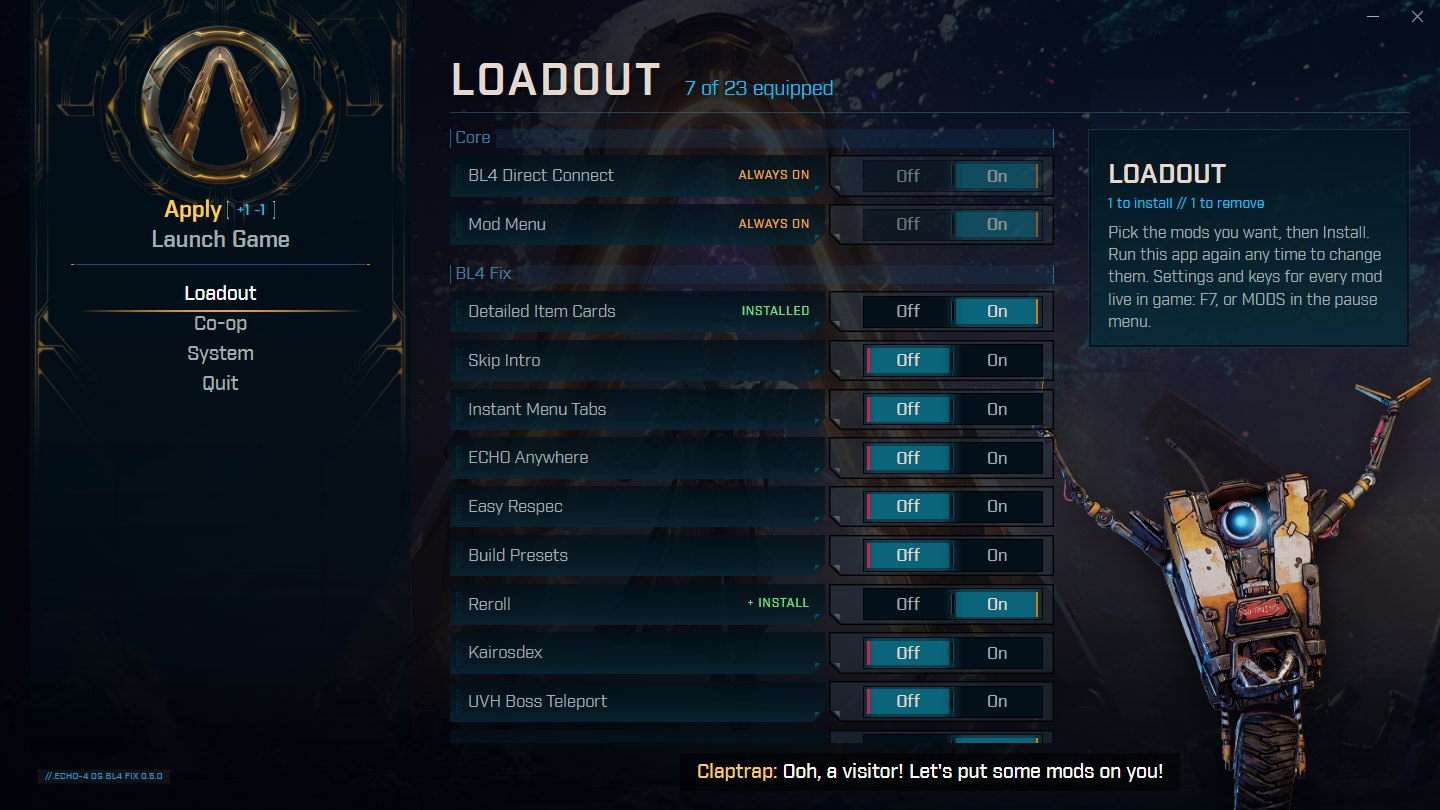
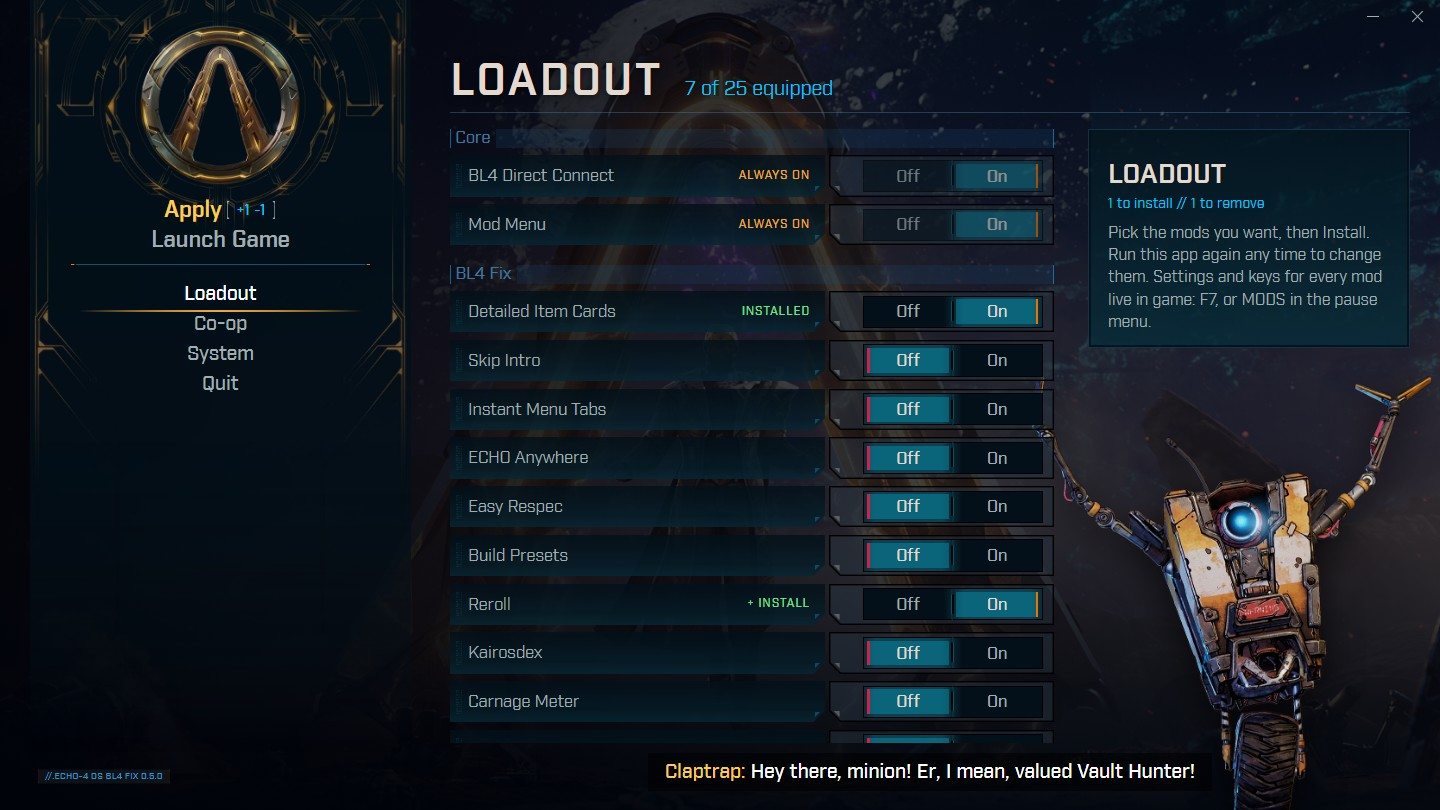
README: new Minimap, Less Fog and setup Loadout pictures
Setup preview mock lists Carnage Meter and Tidy Pause Menu like the catalog.
shot.ps1 keeps full resolution for an output name ending in .full.png.

Changed region(s): [[0.4688, 0.8951, 0.8438, 0.9877], [0.5, 0.0926, 0.5938, 0.1235], [0.3438, 0.8642, 0.4062, 0.8951]]

diff --git a/installer/ui/app.js b/installer/ui/app.js
@@ -871,8 +871,9 @@ function mockApi() {
     ["bl4_echo_anywhere", "ECHO Anywhere", "Open the ECHO menu when the game refuses (falling, ...).", "mods", 0, 0, ""],
     ["bl4_respec", "Easy Respec", "Right-click a skill to take a point back.", "mods", 0, 0, ""],
     ["bl4_builds", "Build Presets", "Five build slots in the inventory: gear, skills and specs.", "mods", 0, 0, ""],
-    ["bl4_reroll", "Reroll", "Reroll class mod and enhancement stats for Eridium.", "mods", 0, 0, "T / G"],
+    ["bl4_reroll", "Reroll", "Reroll class mod and enhancement stats, or whole legendaries and pearls, for Eridium.", "mods", 0, 0, "T / G"],
     ["bl4_weapondex", "Kairosdex", "A dex of the bosses you've beaten and their legendaries (F8).", "mods", 0, 0, "F8"],
+    ["bl4_damage_meter", "Carnage Meter", "Every player's damage and top damage sources (F9), and a pop-up when a boss dies.", "mods", 0, 0, "F9"],
     ["bl4_uvh_teleport", "UVH Boss Teleport", "Hover a UVH boss challenge and press T to go there.", "mods", 0, 0, "T"],
     ["bl4_minimap", "Minimap", "A minimap with the ECHO map's art, fog, icons and route (N).", "mods", 0, 0, "N"],
     ["bl4_third_person", "Third Person", "H: over-the-shoulder camera with aiming.", "mods", 0, 0, "H"],
@@ -880,6 +881,7 @@ function mockApi() {
     ["bl4_backpack_size", "Backpack Size", "Set the backpack, bank and Lost Loot limits.", "mods", 0, 0, ""],
     ["bl4_shoot_open", "Shoot to Open", "Shoot a container or chest to open it.", "mods", 0, 0, ""],
     ["bl4_less_fog", "Less Fog", "Thin out the haze over the world.", "mods", 0, 0, ""],
+    ["bl4_tidy_pause", "Tidy Pause Menu", "Move the pause menu's News panel to the right, or hide it.", "mods", 0, 0, ""],
     ["bl4_perf", "Performance Fixes", "Fewer hitches: no DLSS reload after menus, cheaper mod hooks.", "mods", 0, 0, ""],
     ["bl4_dialog_skipper", "Dialog Skipper", "Skip voice lines by key or automatically.", "ported", 0, 0, ""],
     ["bl4_grapple_anywhere", "Grapple Anywhere", "Grapple to any ledge you aim at.", "ported", 0, 0, ""],

diff --git a/README.md b/README.md
@@ -235,7 +235,7 @@ route. **N** shows or hides it. It films the map once and pans across that pictu
 about 0.13 ms a frame.
 
 <p align="center">
-  <img src="docs/images/minimap.jpg" alt="Round minimap in the top right corner during a fight" width="88%">
+  <img src="docs/images/minimap.jpg" alt="Square minimap in the top right corner: the ECHO map art with mission, vendor and fast travel icons and a dotted route to the waypoint" width="88%">
 </p>
 
 ### Reroll
@@ -283,7 +283,7 @@ valid. No more full respec to fix one misclick. The menu's button bar shows the 
 Thins out the haze over the world: lower fog density, pushed further away, adjusted live.
 
 <p align="center">
-  <img src="docs/images/less-fog.jpg" alt="Split screen: vanilla fog on the left, Less Fog on the right" width="88%">
+  <img src="docs/images/less-fog.jpg" alt="The same view twice: vanilla fog on the left, Less Fog's Clear preset on the right" width="88%">
 </p>
 
 ### And the rest
